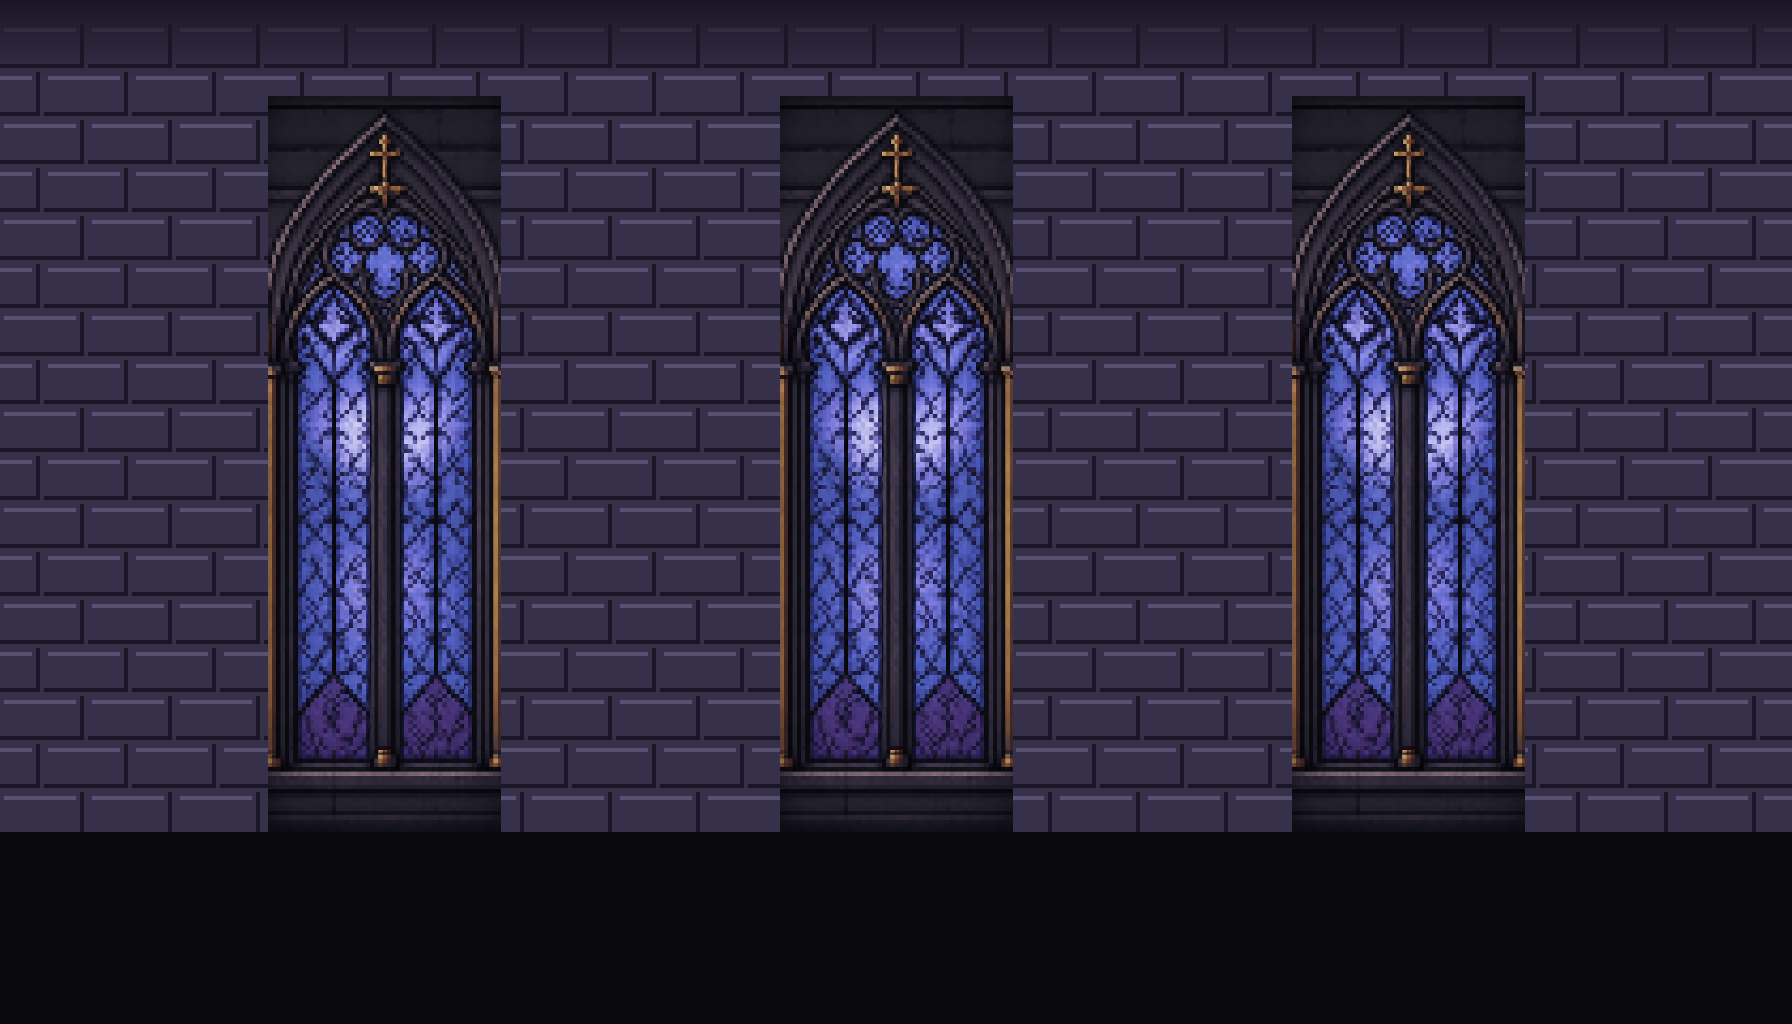
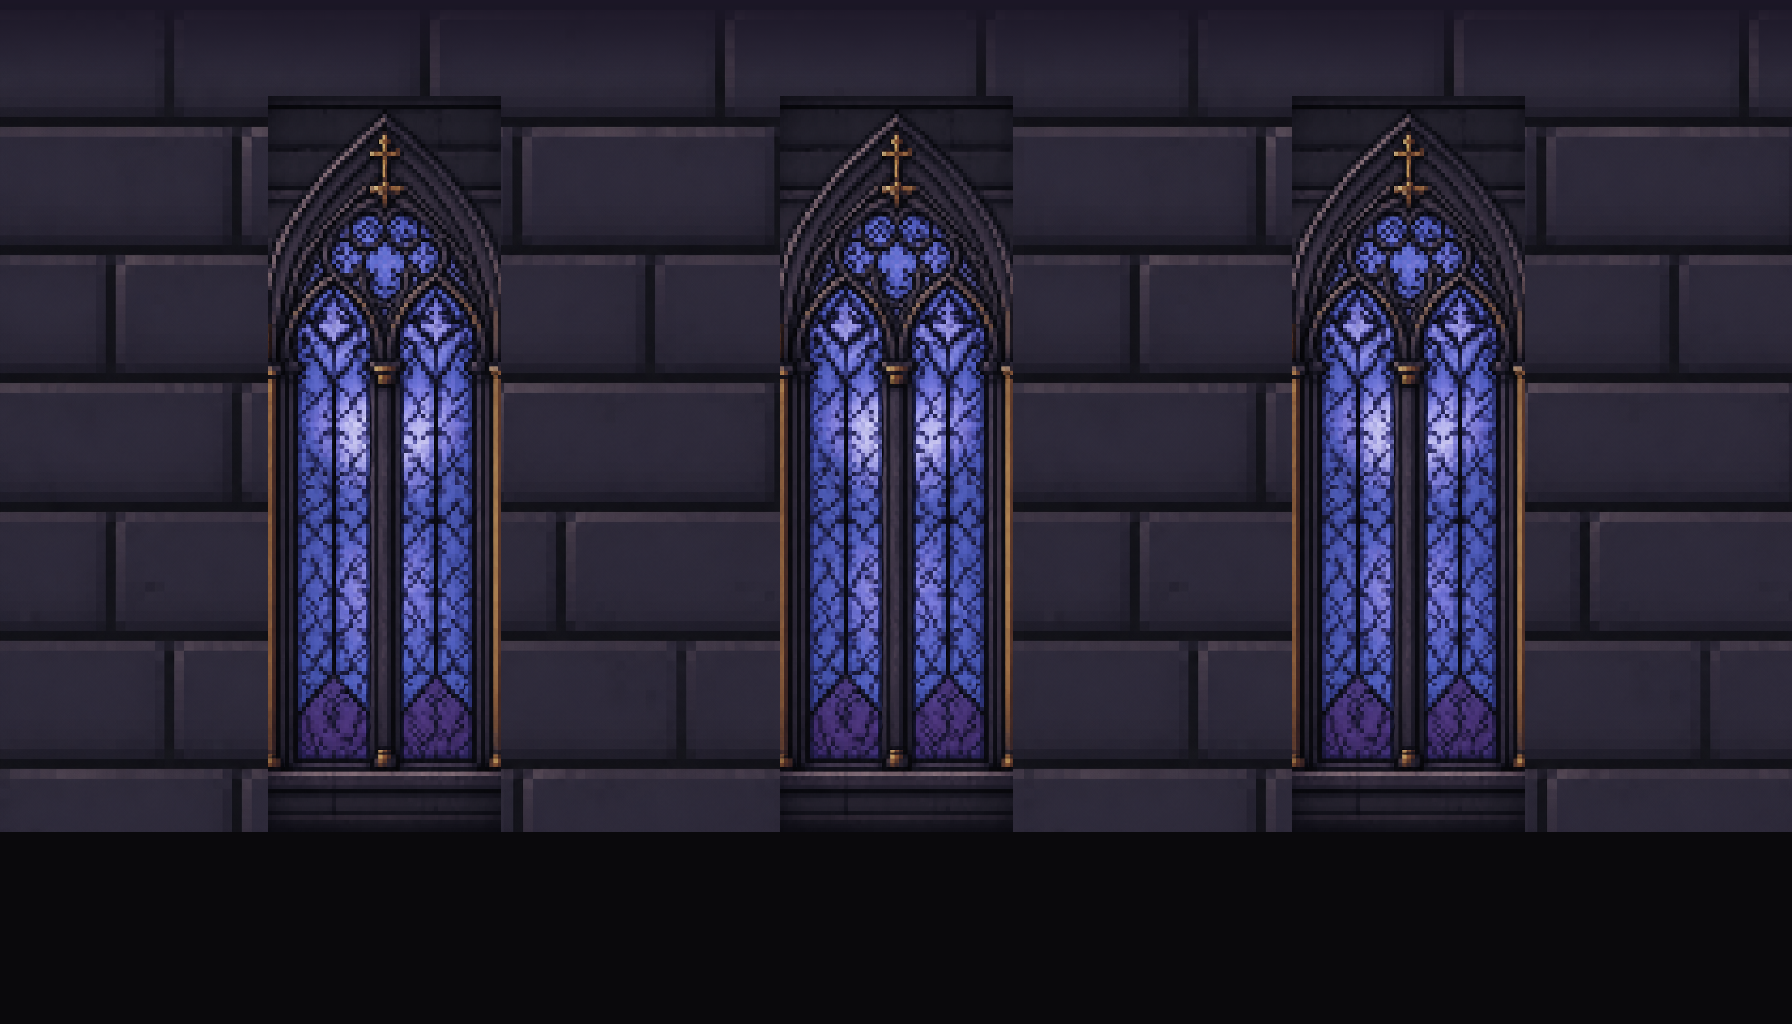
fix(art): give backdrop walls continuity with the window/curtain frame
User caught it live: the window's own baked-in stone frame (generated with
bg_mode:"include", filling the whole canvas) read as a separate pasted
rectangle against the hand-painted procedural masonry behind it — worst in
the throne room, where the wall is tower-green and the window's native
stone came out neutral purple-grey (never color-constrained at generation
time).

User's fix, not mine: derive the wall from the window's own material
instead of trying to match it by hand. Generated two wall textures via
generate_game_art with style_asset_ids pointing at the approved window/
curtain modules — chapel's stays the modules' native purple (already close
to the castle ramp), throne's forces the tower ramp's green explicitly via
`colors`. New fillWallTexture() tiles these raw textures directly into the
backdrop compositor canvas in place of the hand-coded fillMasonry(), so the
wall is now literally the same material as the window frame. Recomposed and
reverified in-browser for both rooms.

Also tried turning the same textures into discrete tile.<zone>.bgWall
tiles for ordinary (non-backdrop) rooms — the castle crop was passable but
the tower one came out noisy, same failure mode as the two earlier Phase 2
attempts. Reverted; normal rooms stay procedural.

diff --git a/docs/ART_PIPELINE.md b/docs/ART_PIPELINE.md
@@ -746,3 +746,50 @@ passo de amostragem importam tanto quanto o método. Qualquer crop de
 conteúdo gerado por IA precisa ser conferido visualmente após a medição
 (sobrepor o crop na imagem original, não confiar só no número), não só
 depois de composto na versão final.
+
+### 9.10 Bug real #2: parede sem continuidade com a moldura da janela (corrigido)
+
+Depois do fix de recorte acima, o usuário notou (jogando ao vivo) que a
+janela ainda destoava — não por corte, mas porque a moldura de pedra escura
+que já vem embutida no módulo da janela (gerado com `bg_mode: "include"`,
+preenchendo o canvas inteiro) não tem nada a ver com a alvenaria PROCEDURAL
+que eu pintava por trás (`fillMasonry`, cores da ramp escolhidas à mão) — no
+trono isso ficava especialmente óbvio porque a parede é verde (`TOWER_RAMP`)
+e a pedra nativa do módulo é cinza-arroxeada neutra (nunca foi restringida a
+uma paleta na hora de gerar).
+
+**Diagnóstico do usuário, não meu:** "gerar tileset de muro baseado no fundo
+da janela, assim dá continuidade" — em vez de tentar fazer minha parede
+procedural combinar com a arte gerada, extrair/derivar a parede DA MESMA
+fonte visual da janela.
+
+**Fix aplicado:**
+1. Gerei uma textura de parede nova via `generate_game_art` com
+   `style_asset_ids` apontando para os módulos de janela/cortina já
+   aprovados — herda o mesmo estilo de bloco/argamassa.
+   - Primeira tentativa (só style_asset_ids, sem forçar cor): saiu no tom
+     roxo-neutro nativo do módulo — ótima para `chapel` (zona castle, ramp
+     já é roxa), mas errada para `throne` (zona tower, ramp verde).
+   - Segunda tentativa, só para a torre: mesmo prompt + `colors` explícito
+     com os hex do `TOWER_RAMP` — saiu verde-verdigris correto.
+2. `tools/lib/backdrop-compose.mjs` ganhou `fillWallTexture()` — ladrilha a
+   imagem bruta gerada (1024×1024) diretamente no canvas de trabalho, em vez
+   de `fillMasonry()` (retângulos procedurais). `compose-throne-backdrop.mjs`
+   e `compose-chapel-backdrop.mjs` trocaram para essa função.
+3. Recompostos, reprocessados pelo pipeline (quantização para a paleta real)
+   e confirmados no browser — parede visivelmente contínua atrás/ao redor
+   das janelas e cortinas nas duas salas, sem mais o retângulo escuro
+   destacado.
+
+**Tentativa que NÃO deu certo (revertida):** também tentei recortar essa
+mesma textura em 4 variantes de tile 16×16 para virar `tile.tower.bgWall` /
+`tile.castle.bgWall` (upgrade para as salas normais, não só trono/capela).
+A versão castle saiu aceitável, mas a versão tower saiu ruidosa/quebrada —
+recortar uma janela de 256×256 da textura maior e reduzir para 16×16 via
+majority-vote não preserva um bloco de tijolo coerente, é um problema
+diferente de "usar a mesma textura como fundo contínuo grande" (que
+funcionou bem) — mesma categoria de falha das duas tentativas de Phase 2
+anteriores (§9.8). Revertido antes de ir para o manifest; os tiles de
+parede normais continuam procedurais. Se algum dia quiser esse upgrade nas
+salas normais, a rota provável é gerar UM tile 16×16 isolado por vez (como
+fiz na segunda tentativa do §9.8), não recortar de uma textura grande.
